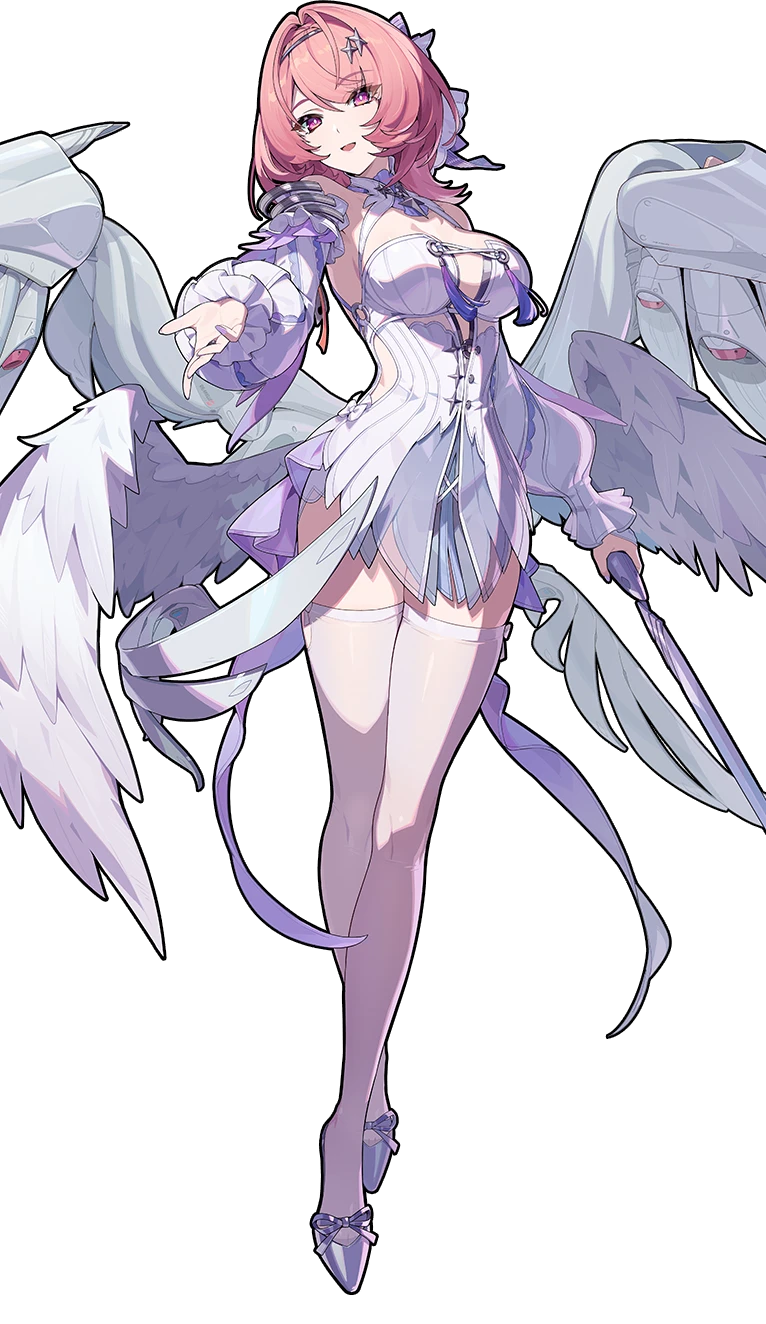
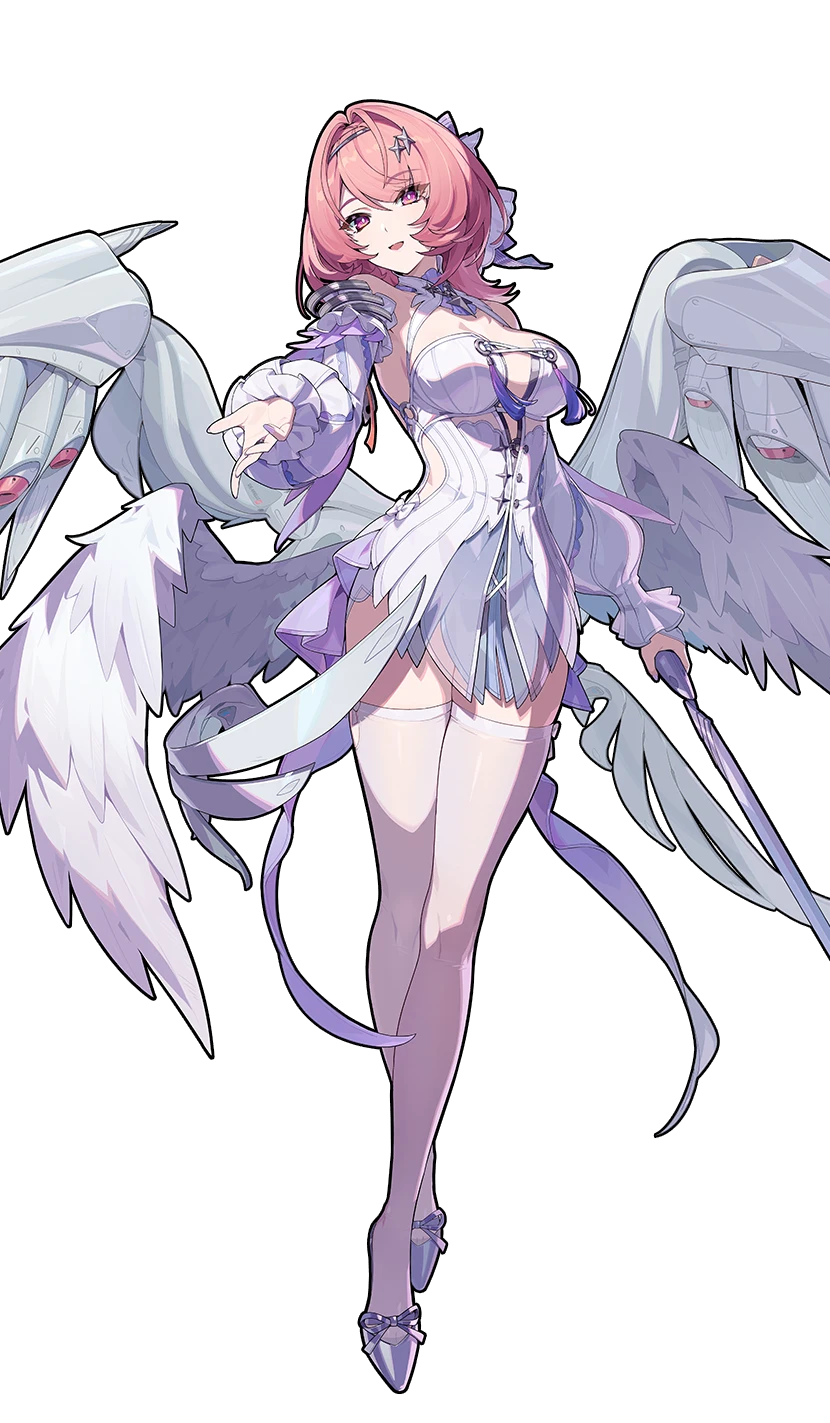
Remielle art: approved tile crop + deckArt wingspan override
A.-approved after dev-server QA:
- tile portrait: face-band crop (face sits in the measured 9.2-24.8%
  tile window; no more accidental fan-service on Pages)
- new optional RosterEntry.deckArt: tall/ slug override for the
  agent-deck portrait, for art whose full composition can't share
  the tile crop. AgentDeck falls back to entry.slug for everyone else.
- remielledan_deck.webp: her uncropped wingspan splash for the deck
  page, staged via Remielle_Dan_Deck in PORTRAIT_SLUG.

diff --git a/src/lib/roster.ts b/src/lib/roster.ts
@@ -11,6 +11,7 @@ export interface RosterEntry {
   faction?: string;
   title?: string; // custom pill title (e.g. "Void Hunter: Qingming Arbiter")
   voidHunter?: boolean; // elite tier — gradient accent + void-hunter badge
+  deckArt?: string; // tall/ slug override for the agent-deck portrait — for art whose full composition (e.g. Remielle's wingspan) can't share the roster tile's face-band crop
   wifeOnly?: boolean; // in the shared roster for her view, but hidden from the default (A.) view
 }
 
@@ -30,7 +31,7 @@ export const ROSTER: RosterEntry[] = [
   { name: "Aria", slug: "aria", section: "Anomaly", attribute: "Ether", mindscape: 0, el: "#9a4fbb", faction: "Angels of Delusion" },
   { name: "Velina", slug: "velina", section: "Anomaly", attribute: "Wind", mindscape: 1, el: "#95c9ff", faction: "Roscaelifer External Strategy Department" },
   { name: "Remielle Dan", slug: "remielledan", section: "Anomaly", attribute: "Lumiflux", mindscape: 2, el: "#f5aede",
-    faction: "Covenant of Dayat", title: "Void Hunter: Temporal Lumiflux", voidHunter: true }, // pulled M2R1 day one, 2026-07-29 — the fallen angel came HOME
+    faction: "Covenant of Dayat", title: "Void Hunter: Temporal Lumiflux", voidHunter: true, deckArt: "remielledan_deck" }, // pulled M2R1 day one, 2026-07-29 — the fallen angel came HOME; deckArt = uncropped wingspan splash
   { name: "Yanagi", slug: "yanagi", section: "Anomaly", attribute: "Electric", mindscape: 0, el: "#14b0ff", faction: "Hollow Special Operations Section 6", wifeOnly: true }, // wife-only; mindscape placeholder (she edits)
   // — Attack —
   { name: "Ye Shunguang", slug: "yeshunguang", section: "Attack", attribute: "Honed Edge", mindscape: 1, el: "#9bb4fb",

diff --git a/scripts/stage-assets.ts b/scripts/stage-assets.ts
@@ -42,7 +42,8 @@ const PORTRAIT_SLUG: Record<string, string> = {
   Vivian_Banshee: "vivian",
   Yixuan: "yixuan",
   // newly-seeded agents not yet in roster.ts — slug guesses; rename here when documented
-  Remielle_Dan: "remielledan", // 3.1 — art ripped from game blocks (AnimeStudio, IconRole67), 2026-07-29
+  Remielle_Dan: "remielledan", // 3.1 — art ripped from game blocks (AnimeStudio, IconRole67), 2026-07-29; tile face-band crop
+  Remielle_Dan_Deck: "remielledan_deck", // her uncropped wingspan splash — deckArt override for the agent-deck page
   Velina_Airgid: "velina",
   Ye_Shunguang: "yeshunguang",
   Ye_Shunguang_Enlightened_Mind: "yeshunguang_enlightened",

diff --git a/src/components/deck/AgentDeck.tsx b/src/components/deck/AgentDeck.tsx
@@ -182,7 +182,7 @@ export function AgentDeck({
         >
           <div className="filmreel" aria-hidden />
           <div className="filmstrip" aria-hidden />
-          <DeckImg className="pimg" src={tallPath(entry.slug)} alt={name} />
+          <DeckImg className="pimg" src={tallPath(entry.deckArt ?? entry.slug)} alt={name} />
           <div className="plate">
             <div className="big">{name}</div>
             {titlePill}
